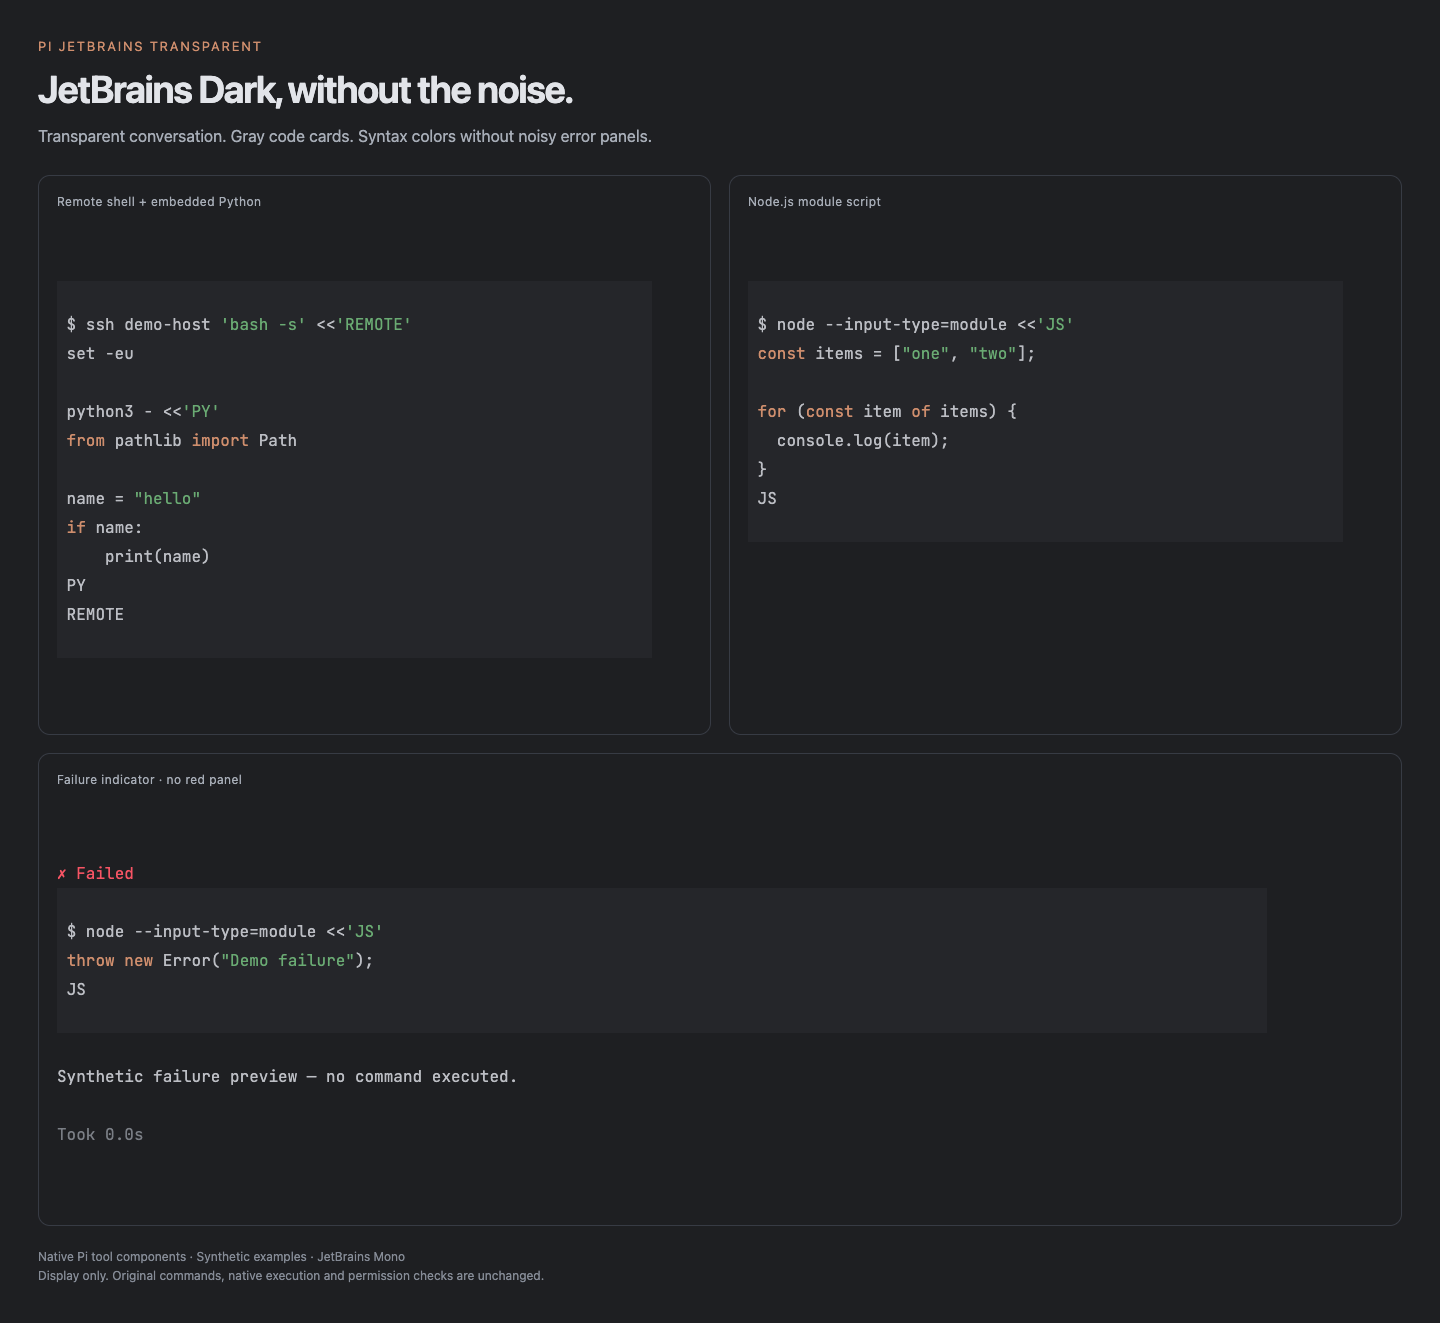
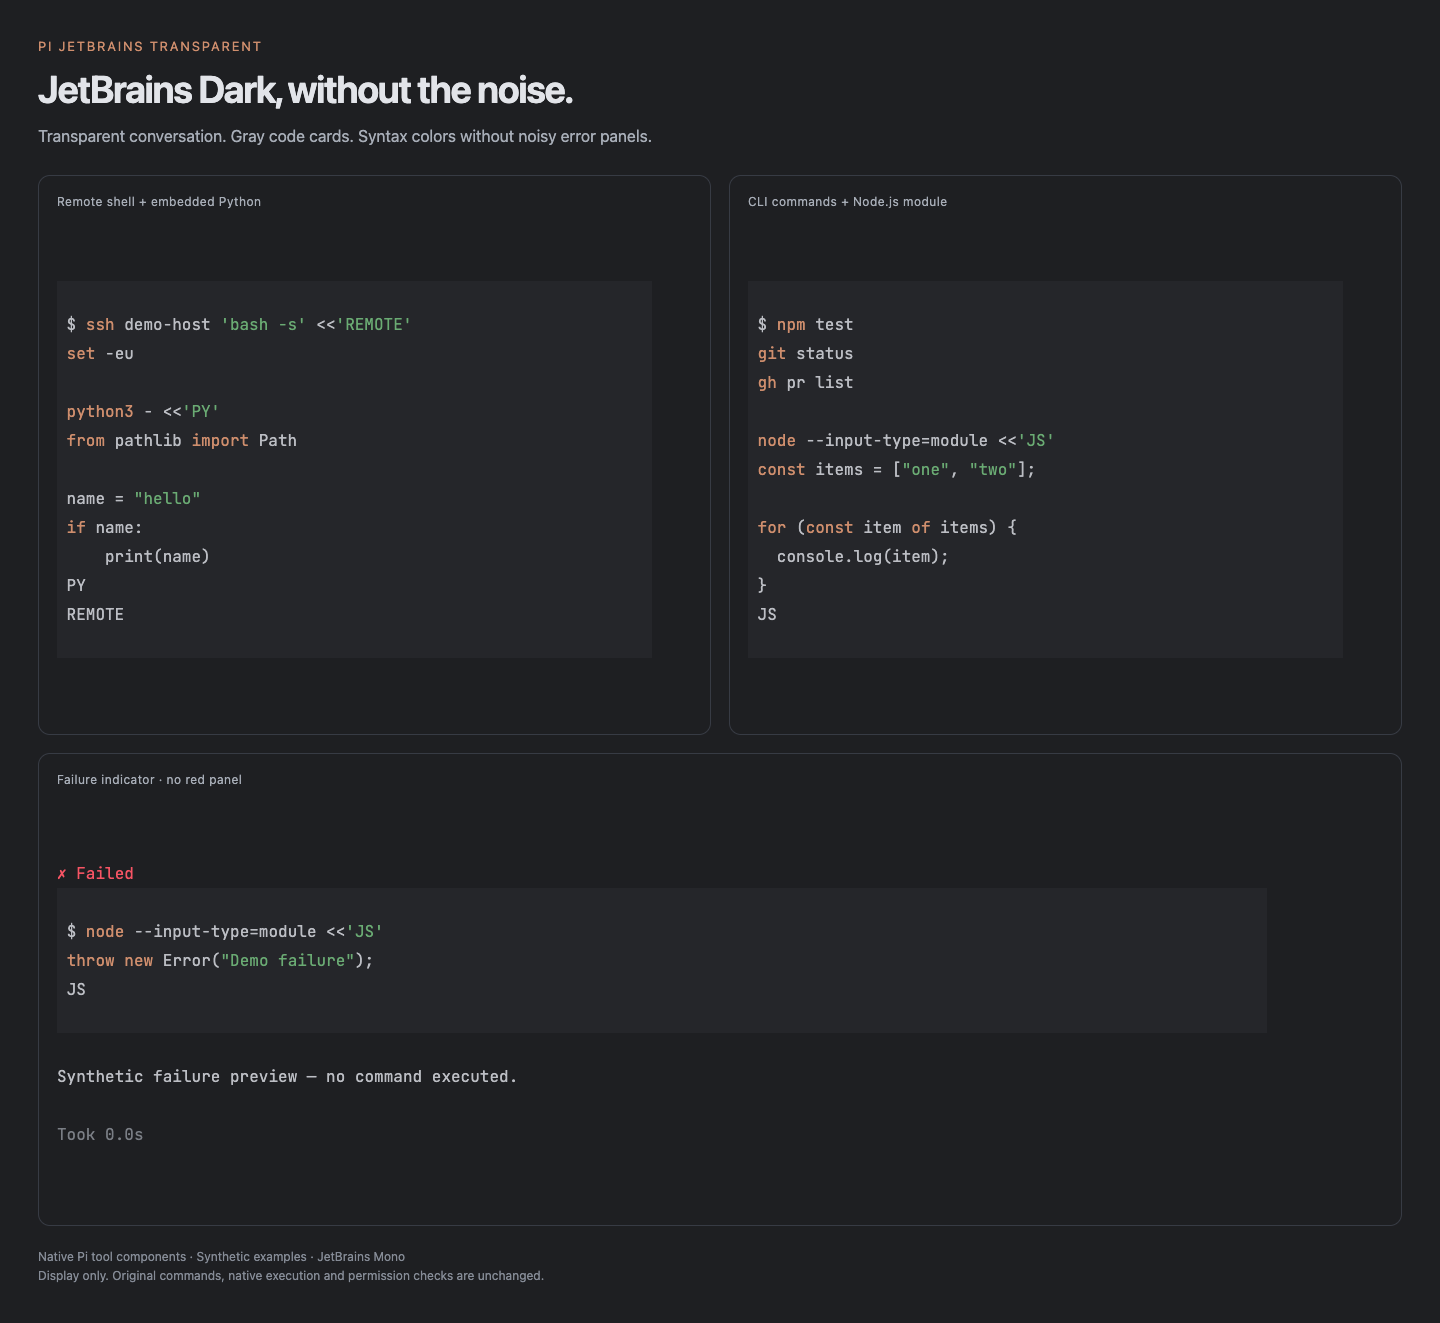
Complete code presentation and structured text accents
Use consistent shell executable colors and readable plain-text cards.
Add synthetic visual examples while preserving native execution,
permissions, transcript data and ordinary runtime output.

Verified with the full release suite, strict TypeScript checking,
installed-host compatibility checks and inspected browser captures.

Change-Type: behavioral

diff --git a/index.ts b/index.ts
@@ -1,8 +1,9 @@
-import { highlightCode, type ExtensionAPI, type Theme } from '@earendil-works/pi-coding-agent';
+import { getLanguageFromPath, type ExtensionAPI, type Theme } from '@earendil-works/pi-coding-agent';
 import { Container, Text, type Component } from '@earendil-works/pi-tui';
 import { highlightCommand } from './highlight.mjs';
 import { codeCard } from './code-cards.ts';
 import { markdownCodeCards } from './markdown.ts';
+import { syntaxCode, shellFileCommands } from './syntax.ts';
 
 const MAX_HIGHLIGHT_CHARACTERS = 50_000;
 type HighlightCache = { command: string; colors: object; mode: string; body: string };
@@ -13,7 +14,7 @@ function colorCommand(component: Text, command: string, timeout: unknown, theme:
   const mode = theme.getColorMode();
   let formatted = cache.get(component);
   if (!formatted || formatted.command !== command || formatted.colors !== colors || formatted.mode !== mode) {
-    const body = highlightCommand(command, highlightCode).map(line => theme.fg('text', line)).join('\n');
+    const body = highlightCommand(command, (source, language) => syntaxCode(source, language, theme)).map(line => theme.fg('text', line)).join('\n');
     formatted = { command, colors, mode, body };
     cache.set(component, formatted);
   }
@@ -37,7 +38,7 @@ export default function completedCommandColors(pi: ExtensionAPI) {
   pi.registerCommand('command-colors', {
     description: 'Check whether completed command colors are loaded',
     handler: async (_args, context) => {
-      context.ui.notify('Command colors: enabled. Gray code cards; metadata-based syntax colors; plain unknown code; red failure labels.', 'info');
+      context.ui.notify('Command colors: enabled. Gray code cards; consistent shell-command colors; plain unknown code; red failure labels.', 'info');
     },
   });
   pi.registerToolRenderer((name, next) => {
@@ -60,7 +61,9 @@ export default function completedCommandColors(pi: ExtensionAPI) {
           }
         }
         const source = name === 'bash' && component instanceof Text ? input.command : name === 'write' ? input.content : name === 'codemode' ? input.code : undefined;
-        let displayed: Component = original.renderShell !== 'self' && typeof source === 'string' && source.length ? codeCard(component, theme) : component;
+        const shellFile = name === 'write' && context.argsComplete && typeof input.path === 'string' && getLanguageFromPath(input.path) === 'bash';
+        const content = shellFile && original.renderShell !== 'self' ? shellFileCommands(component, theme) : component;
+        let displayed: Component = original.renderShell !== 'self' && typeof source === 'string' && source.length ? codeCard(content, theme) : content;
         if (context.isError) {
           const failed = new Container();
           failed.addChild(new Text(theme.fg('error', '✗ Failed'), 0, 0));
@@ -78,7 +81,9 @@ export default function completedCommandColors(pi: ExtensionAPI) {
           const hasImage = result.content.some(part => part.type === 'image');
           const source = name === 'read' ? result.content.some(part => part.type === 'text') : typeof result.details?.diff === 'string';
           if (original.renderShell === 'self' || context.isError || hasImage || !source) return component;
-          const displayed = codeCard(component, theme);
+          const input = (context.args && typeof context.args === 'object' ? context.args : {}) as Record<string, unknown>;
+          const shellFile = name === 'read' && typeof input.path === 'string' && getLanguageFromPath(input.path) === 'bash';
+          const displayed = codeCard(shellFile ? shellFileCommands(component, theme) : component, theme);
           nativeComponents.set(displayed, component);
           return displayed;
         },

diff --git a/markdown.ts b/markdown.ts
@@ -2,6 +2,8 @@ import { getLanguageFromPath, highlightCode, type Theme, type MarkdownTransformC
 import { visibleWidth, wrapTextWithAnsi } from '@earendil-works/pi-tui';
 import { paintCodeLine } from './code-cards.ts';
 import { highlightCommand } from './highlight.mjs';
+import { syntaxCode } from './syntax.ts';
+import { plainTextLines } from './plain-text.ts';
 
 const LANGUAGE_EXTENSIONS: Record<string, string> = {
   javascript: 'js', typescript: 'ts', python: 'py', bash: 'sh', shell: 'sh',
@@ -17,8 +19,8 @@ function languageFromInfo(info: string) {
 function cardLines(source: string, info: string, width: number, streaming: boolean, theme: Theme) {
   const language = languageFromInfo(info);
   const lines = !streaming && language && source.length <= 50_000
-    ? (language === 'bash' ? highlightCommand(source, highlightCode) : highlightCode(source, language))
-    : source.split('\n').map(line => theme.fg('text', line));
+    ? (language === 'bash' ? highlightCommand(source, (code, lang) => syntaxCode(code, lang, theme)) : highlightCode(source, language))
+    : language ? source.split('\n').map(line => theme.fg('text', line)) : plainTextLines(source, theme);
   const innerWidth = width - 2;
   const blank = paintCodeLine(' '.repeat(width), theme);
   const body = lines.flatMap(line => wrapTextWithAnsi(line, innerWidth).map(part =>

diff --git a/plain-text.ts b/plain-text.ts
@@ -1,0 +1,23 @@
+import type { Theme } from '@earendil-works/pi-coding-agent';
+import { rgbColor } from '@earendil-works/pi-tui';
+
+const READABLE_WHITE = rgbColor(230, 232, 237);
+const UUID = String.raw`[0-9a-f]{8}-(?:[0-9a-f]{4}-){3}[0-9a-f]{12}`;
+const DATE = String.raw`\d{4}-(?:0[1-9]|1[0-2])-(?:0[1-9]|[12]\d|3[01])`;
+const TIME = String.raw`(?:[01]\d|2[0-3]):[0-5]\d(?::[0-5]\d(?:\.\d{1,9})?)?`;
+const ZONE = String.raw`(?:Z|[+-](?:[01]\d|2[0-3]):?[0-5]\d|[ ](?:UTC|GMT))?`;
+const DATA_TOKEN = new RegExp(String.raw`(?<![A-Za-z0-9_])(?:${UUID}|${DATE}(?:[T ]${TIME}${ZONE})?|${TIME}${ZONE})(?![A-Za-z0-9_])`, 'gi');
+
+export function plainTextLines(source: string, theme: Theme) {
+  const body = (text: string) => theme.appearance === 'light'
+    ? theme.fg('text', text) : theme.style(text, { fg: READABLE_WHITE });
+  return source.split('\n').map(line => {
+    let rendered = '', offset = 0;
+    for (const match of line.matchAll(DATA_TOKEN)) {
+      rendered += body(line.slice(offset, match.index));
+      rendered += theme.fg('syntaxKeyword', match[0]);
+      offset = match.index + match[0].length;
+    }
+    return rendered + body(line.slice(offset));
+  });
+}

diff --git a/syntax.ts b/syntax.ts
@@ -1,0 +1,27 @@
+import { highlightCode, type Theme } from '@earendil-works/pi-coding-agent';
+import type { Component } from '@earendil-works/pi-tui';
+import { tintCliLines } from './cli-words.mjs';
+
+function commandColors(lines: readonly string[], theme: Theme) {
+  return tintCliLines(lines, {
+    paint: word => theme.fg('syntaxKeyword', word),
+    ignoredForegrounds: [theme.getFgAnsi('syntaxString'), theme.getFgAnsi('syntaxComment')],
+  });
+}
+
+export function syntaxCode(source: string, language: string, theme: Theme) {
+  const lines = highlightCode(source, language);
+  return language === 'bash' ? commandColors(lines, theme) : lines;
+}
+
+export function shellFileCommands(component: Component, theme: Theme): Component {
+  return {
+    render(width) {
+      const lines = component.render(width);
+      try { return commandColors(lines, theme); }
+      catch { return lines; }
+    },
+    invalidate() { component.invalidate(); },
+    handleMouse: component.handleMouse?.bind(component),
+  };
+}

diff --git a/README.md b/README.md
@@ -8,7 +8,9 @@ Transparent conversation, quiet gray code cards, and JetBrains-inspired colors f
 
 - **Two themes:** `jetbrains-dark-transparent` and `darcula-transparent`.
 - **Consistent code cards:** recognized code gets syntax colors; unknown code stays plain and readable on the same gray background.
+- **Readable plain text:** brighter text in plain/unknown Markdown cards, with UUIDs and formatted dates/times accented in the keyword color. These are visual pattern matches, not data validation. Programming-language strings retain their syntax colors.
 - **Stable generation:** code keeps its card while it streams. Completed commands and Markdown blocks get the enhanced highlighting.
+- **Consistent commands:** executable names such as `npm`, `git`, `gh`, `docker`, and custom commands share the keyword color in shell previews. Arguments, strings, comments, and runtime output keep their own styles.
 - **Readable scripts:** Bash commands and literal Python, Node.js, shell, and SSH-stdin heredocs.
 - **Native file previews:** Pi keeps its filename-based highlighting for JavaScript, TypeScript, Python, YAML, Java, JSON, shell, and other supported formats.
 - **Clear failures:** a red `✗ Failed` label, not a red message panel.
